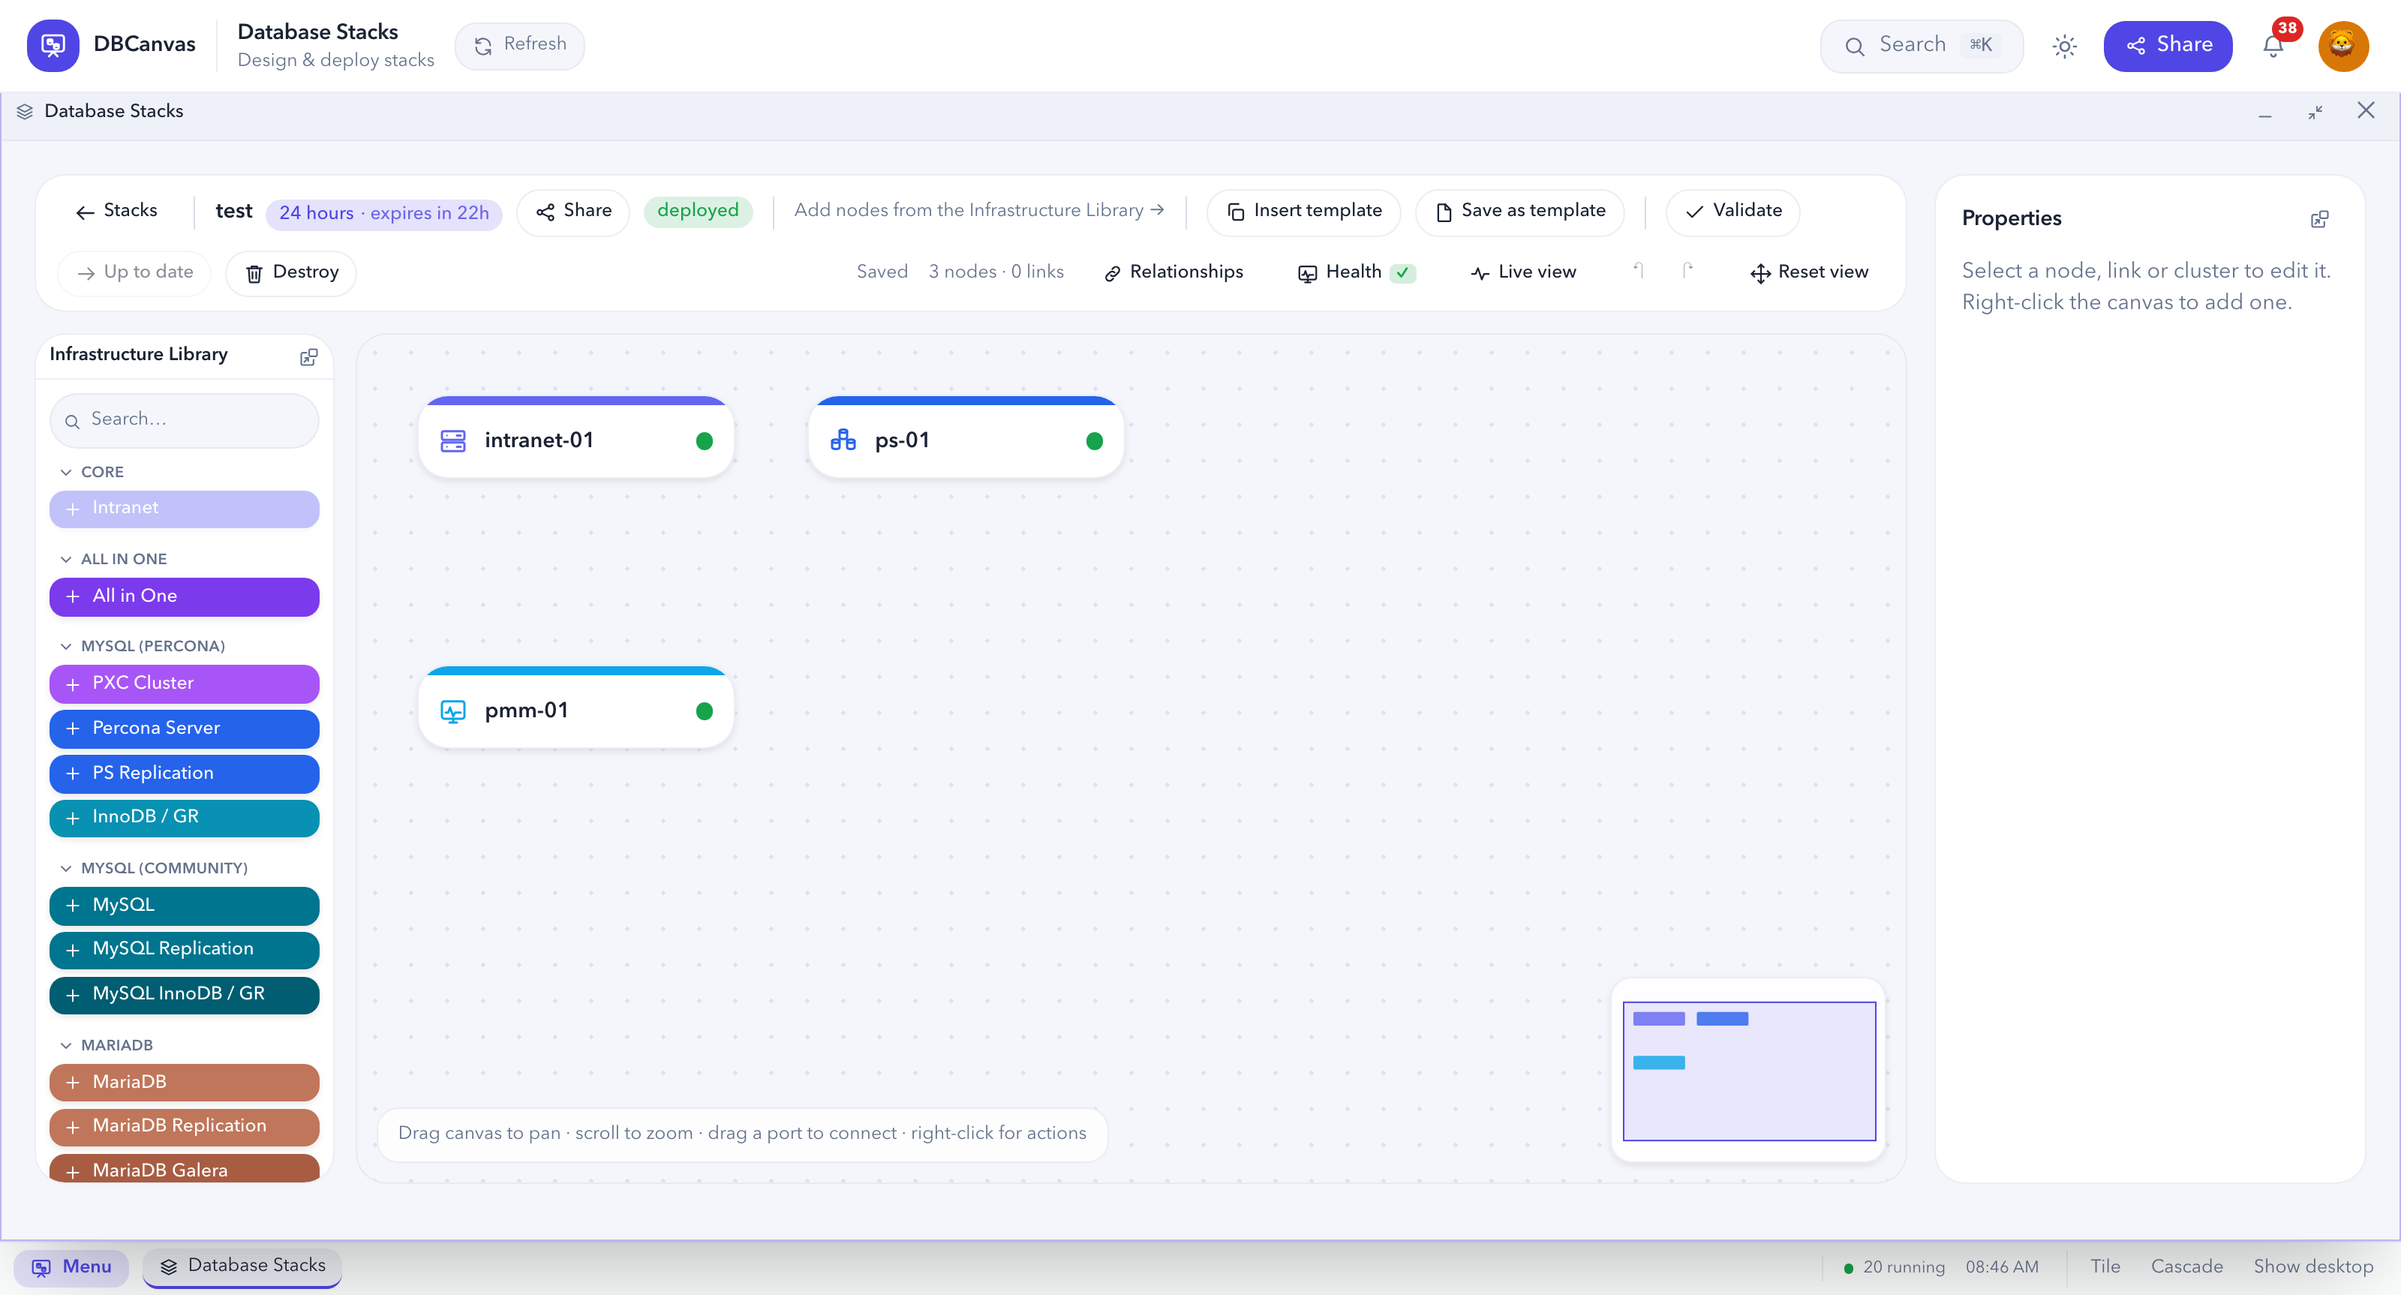
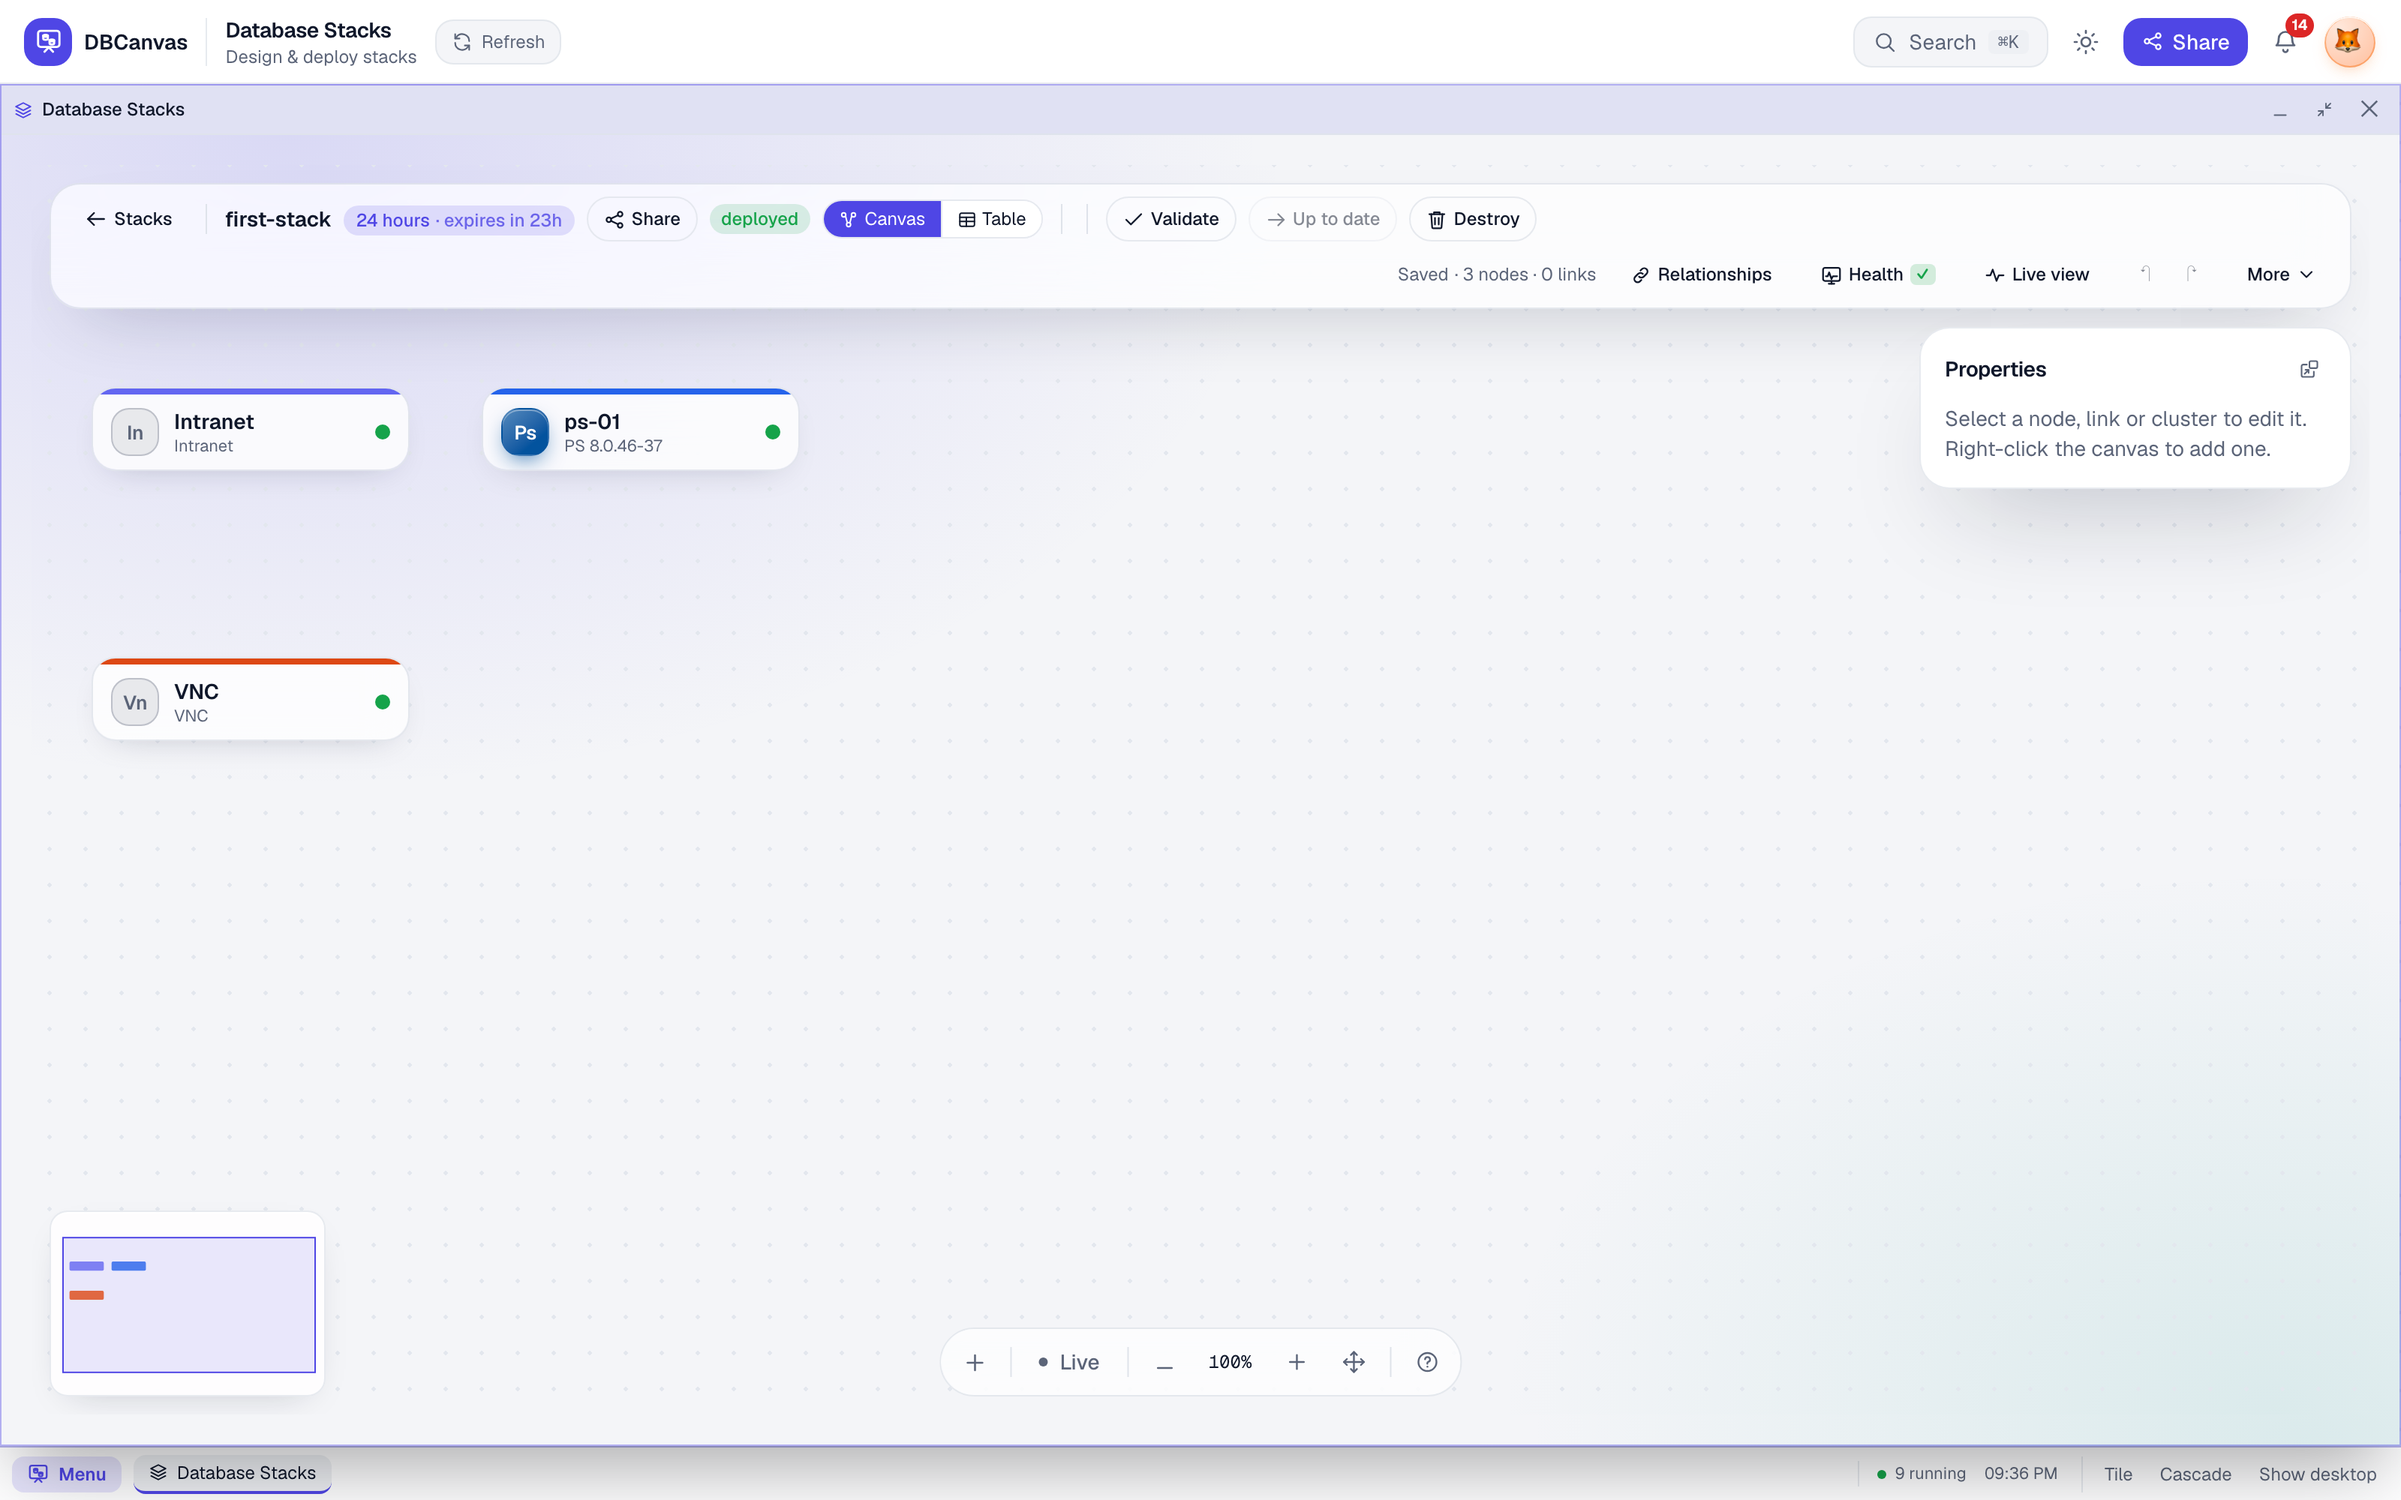
Docs: getting-started screenshots retaken as testuser01; screenshot tool drives the desktop's windows and a real mouse

diff --git a/README.md b/README.md
@@ -420,7 +420,7 @@ installation as a stack file and apply it with `dbcanvas up -f FILE`.
 
 ![The New stack dialog with the PXC + ProxySQL + PMM template selected](docs/screenshots/getting-started-new-stack.png)
 
-![A deployed stack — Intranet, PMM and a Percona Server node](docs/screenshots/getting-started-deployed.png)
+![A deployed stack — Intranet, Percona Server and VNC](docs/screenshots/getting-started-deployed.png)
 
 To build a stack from scratch, add the **Intranet** node first. It provides the DNS,
 certificate authority, LDAP and package proxy that the other nodes need, so the rest of the

diff --git a/docs/GETTING_STARTED.md b/docs/GETTING_STARTED.md
@@ -147,7 +147,7 @@ The fastest route is a template.
    step.
 7. Wait for the node cards to show **running**.
 
-![A deployed three-node stack: Intranet, PMM and a Percona Server node, all running](screenshots/getting-started-deployed.png)
+![A deployed three-node stack: Intranet, Percona Server and VNC, all running](screenshots/getting-started-deployed.png)
 
 > *`running` means the container is up and provisioning finished. A node that failed shows
 > `error`, and the deployment console shows the failed step.*

diff --git a/docs/API_REFERENCE.md b/docs/API_REFERENCE.md
@@ -200,7 +200,7 @@ A stack is a design on the canvas plus the containers it deployed.
 `pending` → `provisioning` → `running`, or `error` (`stopped` when stopped on
 purpose). `dbcanvas up --wait` polls for you.
 
-![A deployed stack — Intranet, PMM and a Percona Server node](screenshots/getting-started-deployed.png)
+![A deployed stack — Intranet, Percona Server and VNC](screenshots/getting-started-deployed.png)
 
 ```sh
 curl -s -H "$AUTH" $API/stacks/12/stackfile > pxc-lab.yaml
